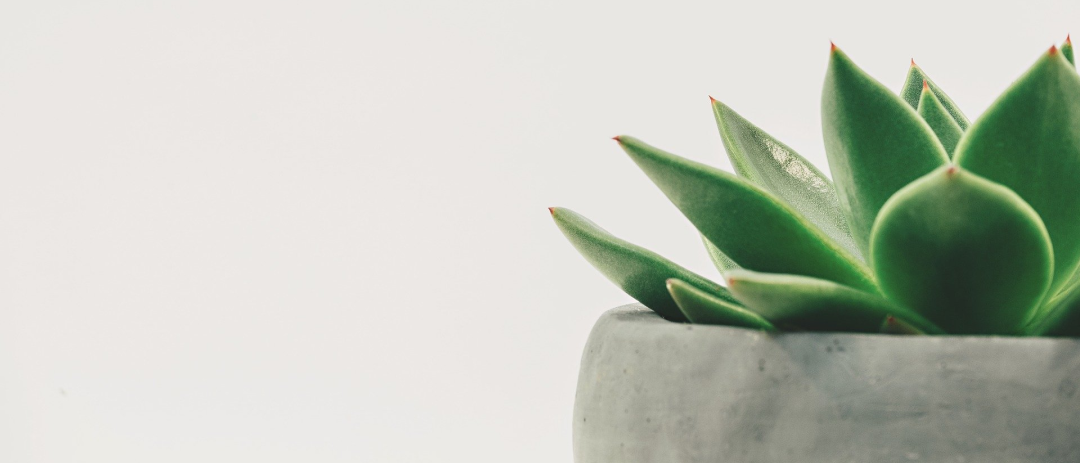
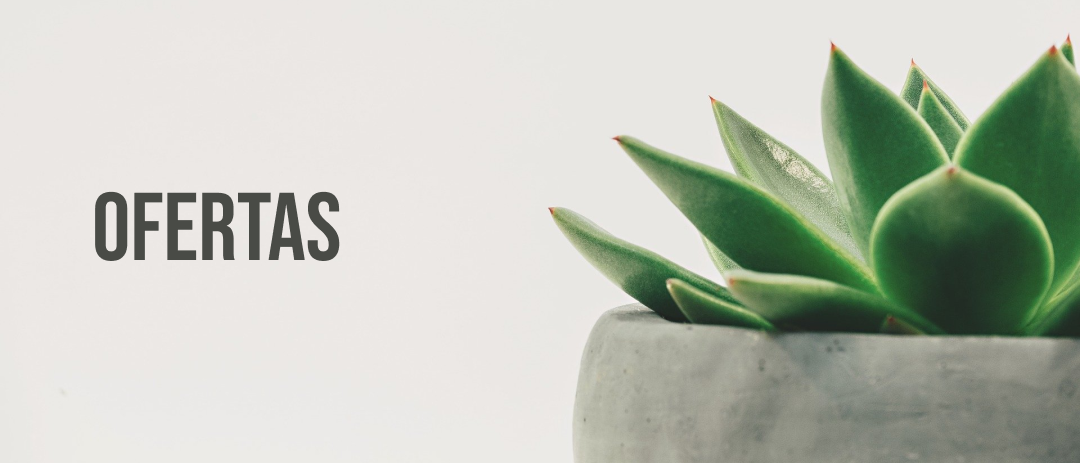
Pagina de ofertas

Changed region(s): [[0.0611, 0.3931, 0.3361, 0.5745]]

diff --git a/offers.html b/offers.html
@@ -1,0 +1,120 @@
+<!DOCTYPE html>
+<html lang="es">
+  <head>
+    <meta charset="UTF-8">
+    <meta http-equiv="X-UA-Compatible" content="IE=edge">
+    <meta name="viewport" content="width=device-width, initial-scale=1.0">
+    <link rel="stylesheet" href="css/styles.css">
+    <link rel="preconnect" href="https://fonts.gstatic.com">
+    <link href="https://fonts.googleapis.com/css2?family=Khula:wght@300&display=swap" rel="stylesheet">
+    <link rel="preconnect" href="https://fonts.gstatic.com">
+    <link href="https://fonts.googleapis.com/css2?family=Bebas+Neue&family=Khula:wght@300&display=swap" rel="stylesheet">
+    <title>Suculenta's Garden</title>
+  </head>
+  <body>
+    <div id="wrapper--principal">
+      <div id="wrapper-second">
+        <!---------header--------->
+        <div class="header clearfix">
+          <div class="tangle-1 clearfix">
+
+            <div class="header__logo">
+              <img src="img/logo.png" alt="Logo de Suculenta's Garden">
+            </div>
+
+            <div class="header__menu">
+              <ul class="menu__nav clearfix">
+                <li class="nav__list button-principal"><a href="#">Inicio</a></li>
+                <li class="nav__list button-principal"><a href="#">Producto</a></li>
+                <li class="nav__list button-principal"><a href="#">Contacto</a></li>
+                <li class="nav__list button-principal"><a href="#">Ayuda</a></li>
+              </ul>
+            </div>
+          </div>
+          <div class="tangle-2 clearfix">
+            <div class="search__bar">
+              <input type="text" placeholder="Buscar">
+              <img src="img/buscar.png">
+            </div>
+
+            <div class="signincart">
+              <a href="#signincart__modal"> <img src="img/Registrarse.png"></a>
+              <a href="#"><img class="cart" src="img/Carrito.png"></a>
+            </div>
+          </div>
+        </div>
+        <img class="offers" src="img/oferta.png" alt="">
+        <!---------Cards Oferts--------->
+        <div class="content-cards">
+          <div class="card">
+            <img src="img/13.png" alt="Suculenta Echeveria">
+            <h3 class="titleCard">Echeveria Black Knight</h3>
+            <p class="price">$ 6.00</p>
+            <img src="img/estrellas.png" alt="Calificación" class="stars">
+            <button class="button-principal button--margin">Ver Detalles</button>
+            <p class="offer">45%</p>
+          </div>
+          <div class="card">
+            <img src="img/13.png" alt="Suculenta Echeveria">
+            <h3 class="titleCard">Echeveria Black Knight</h3>
+            <p class="price">$ 6.00</p>
+            <img src="img/estrellas.png" alt="Calificación" class="stars">
+            <button class="button-principal button--margin">Ver Detalles</button>
+            <p class="offer">45%</p>
+          </div>
+          <div class="card">
+            <img src="img/13.png" alt="Suculenta Echeveria">
+            <h3 class="titleCard">Echeveria Black Knight</h3>
+            <p class="price">$ 6.00</p>
+            <img src="img/estrellas.png" alt="Calificación" class="stars">
+            <button class="button-principal button--margin">Ver Detalles</button>
+            <p class="offer">45%</p>
+          </div>
+          <div class="card2">
+            <img src="img/14.png" alt="Suculenta Echeveria">
+            <h3 class="titleCard">Echeveria Black Knight</h3>
+            <p class="price">$ 6.00</p>
+            <img src="img/estrellas.png" alt="Calificación" class="stars">
+            <button class="button-principal button--margin">Ver Detalles</button>
+            <p class="offer">10%</p>
+          </div>
+          <div class="card2">
+            <img src="img/15.png" alt="Suculenta Echeveria">
+            <h3 class="titleCard">Echeveria Black Knight</h3>
+            <p class="price">$ 6.00</p>
+            <img src="img/estrellas.png" alt="Calificación" class="stars">
+            <button class="button-principal button--margin">Ver Detalles</button>
+            <p class="offer">15%</p>
+          </div>
+          <div class="card2">
+            <img src="img/16.png" alt="Suculenta Echeveria">
+            <h3 class="titleCard">Echeveria Black Knight</h3>
+            <p class="price">$ 6.00</p>
+            <img src="img/estrellas.png" alt="Calificación" class="stars">
+            <button class="button-principal button--margin">Ver Detalles</button>
+            <p class="offer">70%</p>
+          </div>
+        </div>
+        <!---------Footer--------->
+        <div class="footer">
+          <div class="foo-menu clearfix">
+            <ul class="foo-nav-list">
+              <li class="nav-foo"><a href="#">Inicio</a></li>
+              <li class="nav-foo"><a href="#">Producto</a></li>
+              <li class="nav-foo"><a href="#">Contacto</a></li>
+              <li class="nav-foo"><a href="#">Ayuda</a></li>
+            </ul>
+
+            <p class="copyright">© 2020 - Todos los derechos reservados</p>
+          </div>
+          <div class="follow-us">
+            <p>Síguenos aquí</p>
+            <a class="ig" href="www.instagram.com"><img src="img/instagram.png" alt="Cuenta de Instagram de Suculenta's Garden"></a>
+            <a class="fb" href="www.facebook.com"><img src="img/facebook.png" alt="Cuenta de Facebook de Suculenta's Garden"></a>
+          </div>
+        </div>
+      </div>
+    </div>
+    <script src="js/slider.js"></script>
+  </body>
+</html>

diff --git a/sass/partials/_offers.scss b/sass/partials/_offers.scss
@@ -29,6 +29,10 @@
   }
 }
 
+.offers {
+  width: 100%;
+  padding-bottom: 100px;
+}
 
 /*
 @media(min-width: 500px){

diff --git a/sass/partials/_cards.scss b/sass/partials/_cards.scss
@@ -8,6 +8,7 @@
 .card {
   float: left;
   margin-bottom: 82px;
+  position: relative;
   width: 248px;
 }
 
